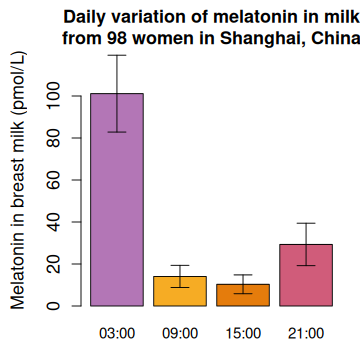
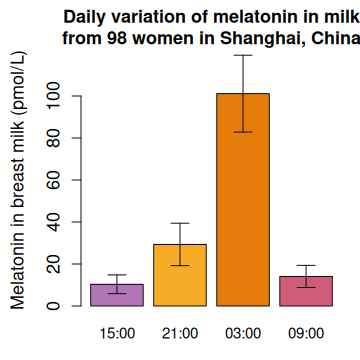
rearrange figure

diff --git a/milk_composition/README.md b/milk_composition/README.md
@@ -8,7 +8,7 @@ Data combined from [Jensen et al 1990](https://pubmed.ncbi.nlm.nih.gov/2184172/)
 ![milk_protein_comparison_v1.png](https://github.com/wrf/misc-analyses/blob/master/milk_composition/images/milk_protein_comparison_v1.png)
 
 ## melatonin levels ##
-Melatonin levels in breast milk are orders of magnitude lower than tryptophan. Melatonin in milk may not have much effect on the circadian rhythm of the baby, compared to tryptophan. 
+Melatonin levels in breast milk peak around 3am ([Qin et al 2019](https://pmc.ncbi.nlm.nih.gov/articles/PMC6884443/) and [Illnerova et al 1993](https://pubmed.ncbi.nlm.nih.gov/8370707/)) but are orders of magnitude lower than tryptophan ([Cubero et al 2005](https://pubmed.ncbi.nlm.nih.gov/16380706/)). Melatonin in milk may not have much effect on the circadian rhythm of the baby, compared to tryptophan.
 
 ![qin2019_melatonin_in_milk.png](https://github.com/wrf/misc-analyses/blob/master/milk_composition/images/qin2019_melatonin_in_milk.png) ![illnerova1993_melatonin_in_milk.png](https://github.com/wrf/misc-analyses/blob/master/milk_composition/images/illnerova1993_melatonin_in_milk.png)
 
